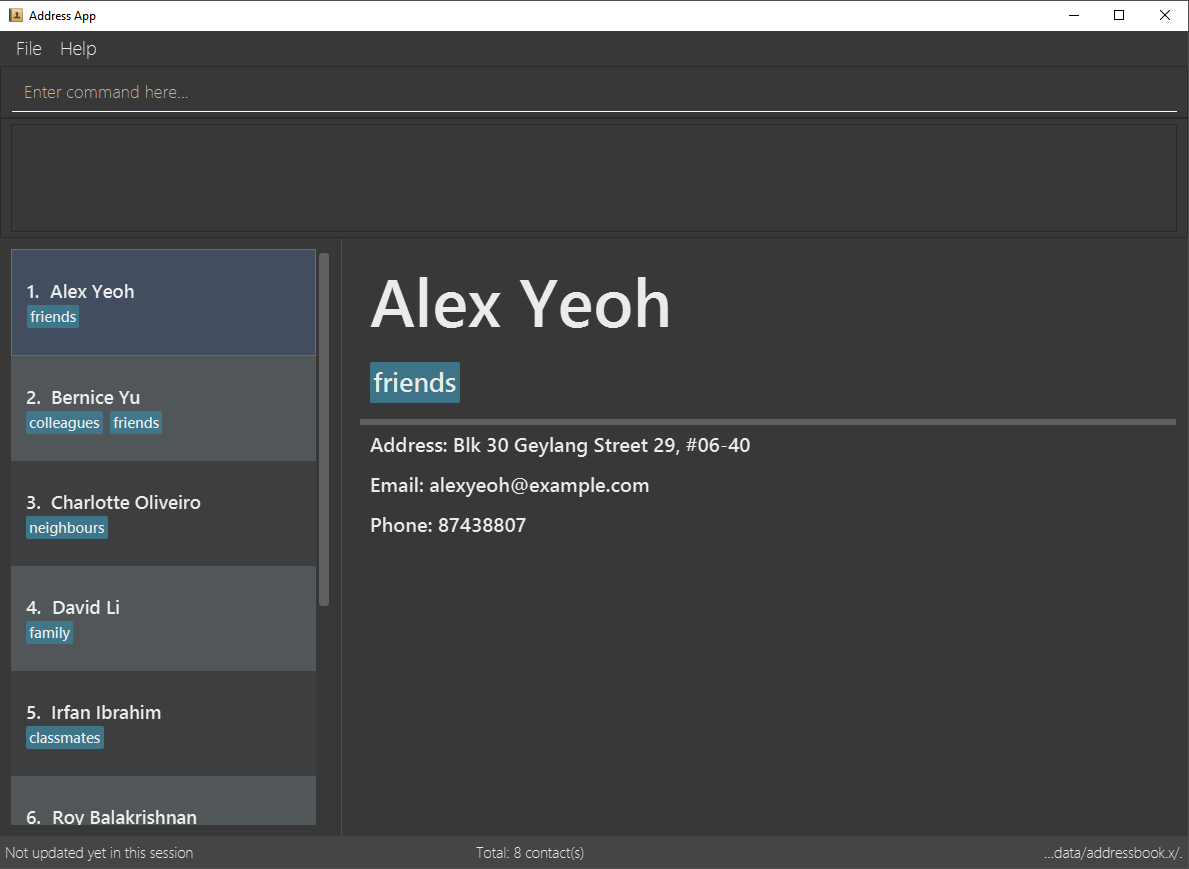
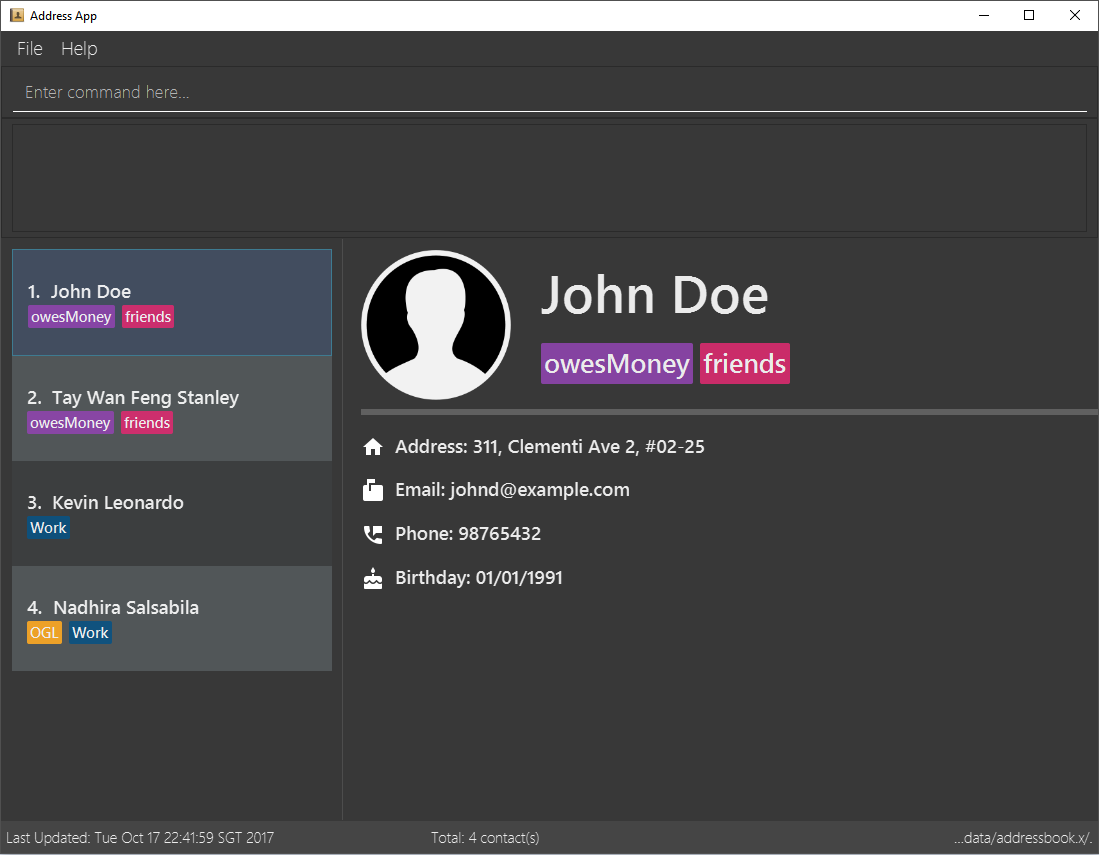
Logic, Model & UI Changes: AddCommand Bug Fix, PersonPanel and Tag.

diff --git a/src/main/resources/view/DarkTheme.css b/src/main/resources/view/DarkTheme.css
@@ -358,7 +358,7 @@
 }
 
 #personPanel #name {
-    -fx-font-size: 50pt;
+    -fx-font-size: 40pt;
     -fx-text-fill: #FFFFFF;
 }
 
@@ -366,11 +366,27 @@
     -fx-font-size: 20pt;
 }
 
-#personPanel #address, #personPanel #email, #personPanel #phone {
-    -fx-font-size: 15pt;
+#personPanel #address, #personPanel #email, #personPanel #phone, #personPanel #birthday {
+    -fx-font-size: 14pt;
     -fx-text-fill: #FFFFFF;
 }
 
 #personPanel .split-pane-divider {
     -fx-background-color: derive(#1d1d1d, 50%);
+}
+
+#addressWhite {
+    -fx-image: url("../images/addressWhite.png");
+}
+
+#phoneWhite {
+    -fx-image: url("../images/phoneWhite.png");
+}
+
+#emailWhite {
+    -fx-image: url("../images/emailWhite.png");
+}
+
+#birthdayWhite {
+    -fx-image: url("../images/birthdayWhite.png");
 }

diff --git a/src/test/java/guitests/guihandles/PersonPanelHandle.java b/src/test/java/guitests/guihandles/PersonPanelHandle.java
@@ -16,12 +16,14 @@ public class PersonPanelHandle extends NodeHandle<Node> {
     private static final String PHONE_FIELD_ID = "#phone";
     private static final String ADDRESS_FIELD_ID = "#address";
     private static final String EMAIL_FIELD_ID = "#email";
+    private static final String BIRTHDAY_FIELD_ID = "#birthday";
     private static final String TAGS_FIELD_ID = "#tags";
 
     private Label name;
     private Label phone;
     private Label address;
     private Label email;
+    private Label birthday;
     private List<Label> tagLabels;
 
     public PersonPanelHandle(Node personPanelNode) {
@@ -31,6 +33,7 @@ public class PersonPanelHandle extends NodeHandle<Node> {
         this.phone = getChildNode(PHONE_FIELD_ID);
         this.address = getChildNode(ADDRESS_FIELD_ID);
         this.email = getChildNode(EMAIL_FIELD_ID);
+        this.birthday = getChildNode(BIRTHDAY_FIELD_ID);
 
         updateTags();
     }
@@ -50,6 +53,8 @@ public class PersonPanelHandle extends NodeHandle<Node> {
     public String getAddress() {
         return address.getText();
     }
+
+    public String getBirthday() { return birthday.getText(); }
 
     public List<String> getTags() {
         return tagLabels

diff --git a/src/main/java/seedu/address/ui/TagColours.java b/src/main/java/seedu/address/ui/TagColours.java
@@ -1,0 +1,32 @@
+package seedu.address.ui;
+
+/**
+ * A UI feature for each unique tag to have its own colour.
+ */
+public class TagColours {
+    public static final String RED = "#CB4335";
+    public static final String DARK_RED = "#911205";
+    public static final String ORANGE = "#F39C12";
+    public static final String LIGHT_ORANGE = "#FFAA23";
+    public static final String YELLOW = "#F4D03F";
+    public static final String GREEN = "#27AE60";
+    public static final String DARK_GREEN = "#006D36";
+    public static final String BLUE = "#2980B9";
+    public static final String NAVY_BLUE = "#095282";
+    public static final String INDIGO = "#8E44AD";
+    public static final String VIOLET = "#DB2B6F";
+    public static final String BLACK = "#000000";
+    public static final String HOT_PINK = "#FF0062";
+
+    private TagColours() { }
+
+    /**
+     * Returns a String array of available tag colours.
+     */
+    public static String[] getTagColours() {
+        return new String[] { RED, DARK_RED,
+                ORANGE, LIGHT_ORANGE, YELLOW,
+                GREEN, DARK_GREEN, BLUE, NAVY_BLUE,
+                INDIGO, VIOLET, HOT_PINK, BLACK };
+    }
+}

diff --git a/src/main/java/seedu/address/model/tag/Tag.java b/src/main/java/seedu/address/model/tag/Tag.java
@@ -3,6 +3,9 @@ package seedu.address.model.tag;
 import static java.util.Objects.requireNonNull;
 
 import seedu.address.commons.exceptions.IllegalValueException;
+import seedu.address.ui.TagColours;
+
+import java.util.Random;
 
 /**
  * Represents a Tag in the address book.
@@ -14,6 +17,9 @@ public class Tag {
     public static final String TAG_VALIDATION_REGEX = "\\p{Alnum}+";
 
     public final String tagName;
+    public final String tagColour;
+    private static String[] tagColours = TagColours.getTagColours();
+    private static Random colourSelect = new Random();
 
     /**
      * Validates given tag name.
@@ -27,6 +33,17 @@ public class Tag {
             throw new IllegalValueException(MESSAGE_TAG_CONSTRAINTS);
         }
         this.tagName = trimmedName;
+        this.tagColour = assignTagColour();
+    }
+
+    /**
+     * Assign a random colour to the tag.
+     * @return A random colour hex code.
+     */
+    private String assignTagColour() {
+        int randomIndex = colourSelect.nextInt(tagColours.length);
+
+        return tagColours[randomIndex];
     }
 
     /**

diff --git a/src/main/java/seedu/address/ui/PersonPanel.java b/src/main/java/seedu/address/ui/PersonPanel.java
@@ -31,6 +31,8 @@ public class PersonPanel extends UiPart<Region> {
     @FXML
     private Label email;
     @FXML
+    private Label birthday;
+    @FXML
     private FlowPane tags;
 
     public PersonPanel() {
@@ -46,8 +48,13 @@ public class PersonPanel extends UiPart<Region> {
         phone.setText("Phone: " + person.getPhone().toString());
         address.setText("Address: " + person.getAddress().toString());
         email.setText("Email: " + person.getEmail().toString());
+        birthday.setText("Birthday: " + person.getBirthday().toString());
         tags.getChildren().clear();
-        person.getTags().forEach(tag -> tags.getChildren().add(new Label(tag.tagName)));
+        person.getTags().forEach(tag -> {
+            Label tagLabel = new Label(tag.tagName);
+            tagLabel.setStyle("-fx-background-color: " + tag.tagColour);
+            tags.getChildren().add(tagLabel);
+        });
     }
 
     @Subscribe

diff --git a/src/test/java/seedu/address/ui/PersonPanelTest.java b/src/test/java/seedu/address/ui/PersonPanelTest.java
@@ -43,6 +43,7 @@ public class PersonPanelTest extends GuiUnitTest {
         assertEquals("Phone: " + expectedPerson.getPhone().toString(), personPanelHandle.getPhone());
         assertEquals("Email: " + expectedPerson.getEmail().toString(), personPanelHandle.getEmail());
         assertEquals("Address: " + expectedPerson.getAddress().toString(), personPanelHandle.getAddress());
+        assertEquals("Birthday: " + expectedPerson.getBirthday().toString(), personPanelHandle.getBirthday());
 
         personPanelHandle.updateTags();
         assertTagsAreDisplayed(expectedPerson, personPanelHandle);

diff --git a/src/main/java/seedu/address/ui/PersonCard.java b/src/main/java/seedu/address/ui/PersonCard.java
@@ -55,7 +55,11 @@ public class PersonCard extends UiPart<Region> {
     }
 
     private void initTags(ReadOnlyPerson person) {
-        person.getTags().forEach(tag -> tags.getChildren().add(new Label(tag.tagName)));
+        person.getTags().forEach(tag -> {
+            Label tagLabel = new Label(tag.tagName);
+            tagLabel.setStyle("-fx-background-color: " + tag.tagColour);
+            tags.getChildren().add(tagLabel);
+        });
     }
 
     @Override

diff --git a/src/main/java/seedu/address/logic/commands/AddCommand.java b/src/main/java/seedu/address/logic/commands/AddCommand.java
@@ -34,7 +34,7 @@ public class AddCommand extends UndoableCommand {
             + PREFIX_PHONE + "98765432 "
             + PREFIX_EMAIL + "johnd@example.com "
             + PREFIX_ADDRESS + "311, Clementi Ave 2, #02-25 "
-            + PREFIX_BIRTHDAY + "01011991 "
+            + PREFIX_BIRTHDAY + "01/01/1991 "
             + PREFIX_TAG + "friends "
             + PREFIX_TAG + "owesMoney";
 
